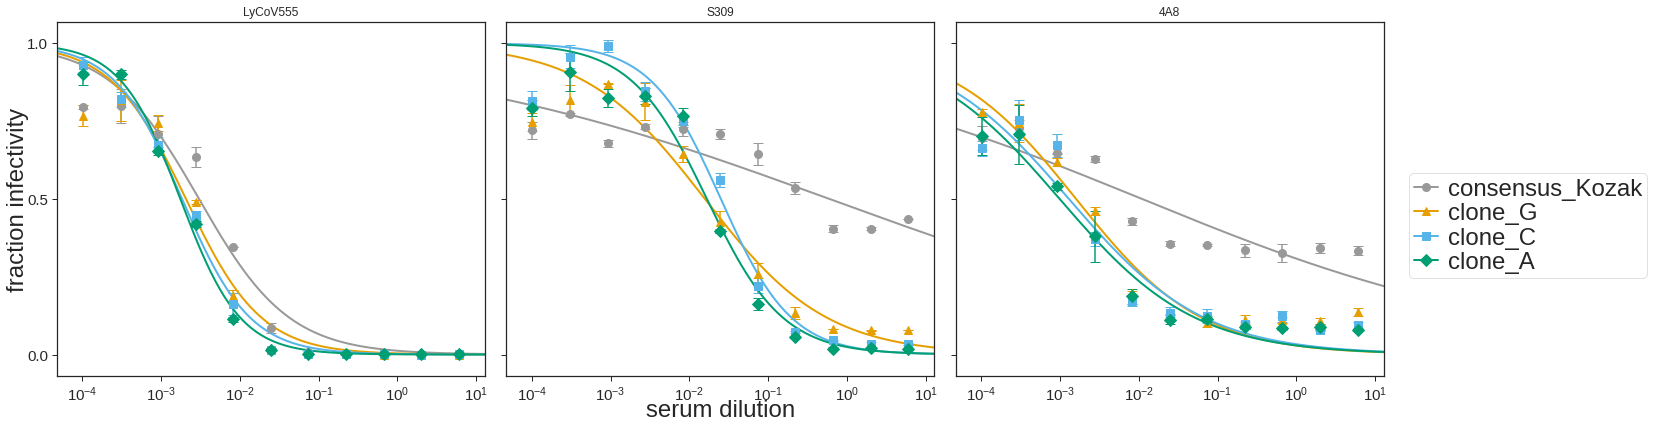
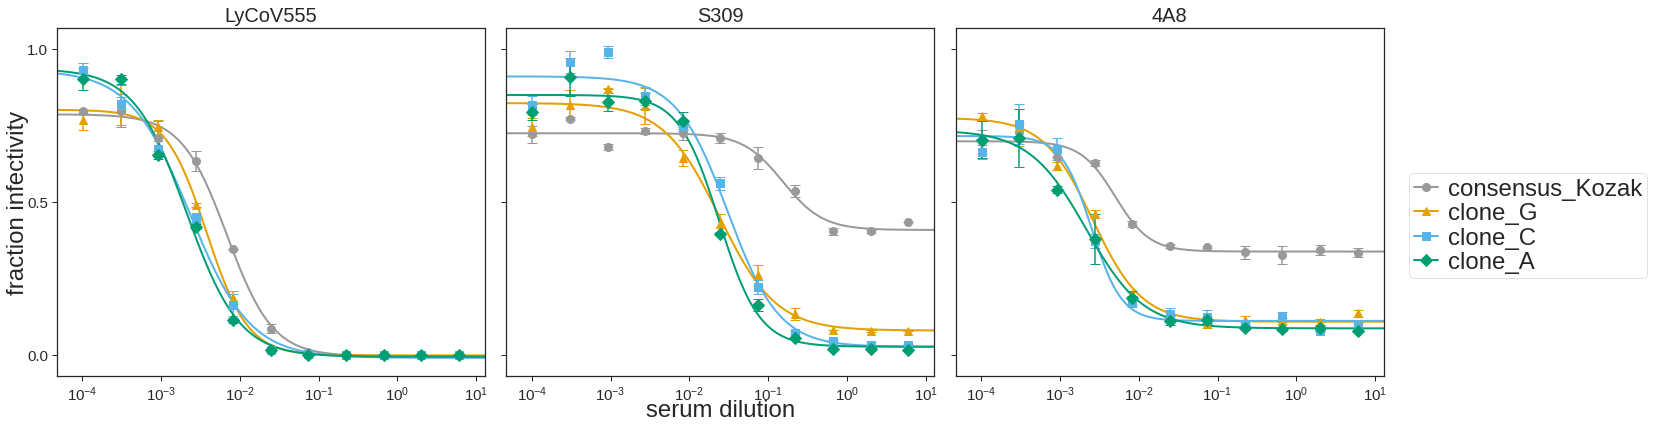
rerun pipeline

diff --git a/results/summary/virus_neutralization_mAbs.md b/results/summary/virus_neutralization_mAbs.md
@@ -195,7 +195,7 @@ frac_infect
 
 
 ```python
-fits = neutcurve.CurveFits(frac_infect)
+fits = neutcurve.CurveFits(frac_infect, fixbottom= False,fixtop = False)
 ```
 
 
@@ -223,7 +223,7 @@ fig, axes = fits.plotSera(
                           ncol=6,
                           widthscale=2,
                           heightscale=2,
-                          titlesize=12, labelsize=24, ticksize=15, legendfontsize=24, yticklocs=[0,0.5,1],
+                          titlesize=20, labelsize=24, ticksize=15, legendfontsize=24, yticklocs=[0,0.5,1],
                           markersize=8, linewidth=2,
                          )
 ```
@@ -233,3 +233,8 @@ fig, axes = fits.plotSera(
 ![png](virus_neutralization_mAbs_files/virus_neutralization_mAbs_17_0.png)
     
 
+
+
+```python
+
+```
